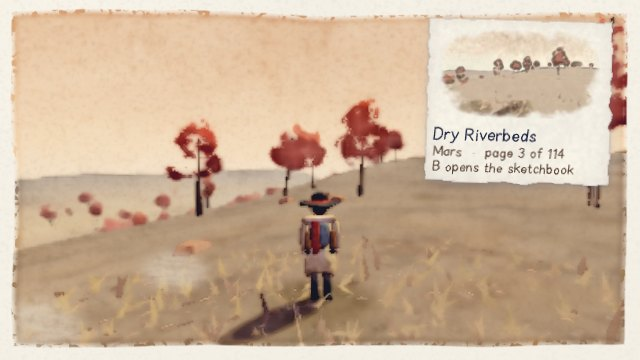
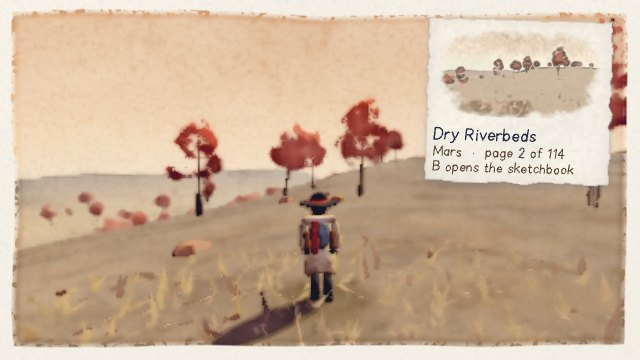
[pilot] M4 fix round (fourteenth PILOT agent): the figure's shade is out of the sketch, a view not drawn is offered again, the hand-over. game.js repaint: the frame kept for a page is painted through the world again (world.update with no time, then the painter), so PAINTER's cast shade is laid for w

diff --git a/src/core/game.js b/src/core/game.js
@@ -182,7 +182,8 @@ export class Game {
 
     // World, mood, paint.
     const tw = performance.now();
-    world.update(dt, cam.position, v.active ? v.active.id : null);
+    this._activeId = v.active ? v.active.id : null;
+    world.update(dt, cam.position, this._activeId);
     const wms = performance.now() - tw;
     st0.worldMs += (wms - st0.worldMs) * 0.08;
     // The worst world.update of the last 90 frames (the budget is a worst frame, not an average).
@@ -361,7 +362,7 @@ export class Game {
     try {
       const src = this.renderer ? this.renderer.domElement : null;
       if (!src || !src.width || !src.height || typeof document === 'undefined') return null;
-      if (hide) { fig.visible = false; this.painter.render(this.scene, this.camera, 0); }
+      if (hide) { fig.visible = false; this.repaint(); }
       const c = this._sketchCanvas || (this._sketchCanvas = document.createElement('canvas'));
       c.width = SKETCH.width; c.height = SKETCH.height;
       const g = c.getContext('2d', { willReadFrequently: true });
@@ -383,8 +384,16 @@ export class Game {
       if (url.length > SKETCH.maxEach) url = c.toDataURL('image/jpeg', SKETCH.qualityLow);
       return url.length > SKETCH.maxEach ? null : url;
     } catch { return null; } finally {
-      if (hide) { fig.visible = true; try { this.painter.render(this.scene, this.camera, 0); } catch { /* the next frame repaints */ } }
+      if (hide) { fig.visible = true; try { this.repaint(); } catch { /* the next frame repaints */ } }
     }
+  }
+
+  // Paint the frame again as it stands; no time passes. The world goes first: it lays the shade
+  // of whatever stands on the land and can be seen (a figure taken out of the picture left its
+  // shade on the ground: a dark smear in the middle of the page).
+  repaint() {
+    if (this.world && this.world.update) this.world.update(0, this.camera.position, this._activeId || null);
+    this.painter.render(this.scene, this.camera, 0);
   }
 
   // The footfall to sound this frame, if PHYSICS counted a new one: { foot, loud }, or null.

diff --git a/docs/notes/pilot.md b/docs/notes/pilot.md
@@ -156,18 +156,30 @@ error and no fall-back (the film run `s14/film-a.log`: `game errors: [] problems
     swapped for a stand-in is an empty canvas (a brown blot on the page). The game never does that, but
     `sketchHand` now refuses a frame with nothing in it and the page is wanted again (test in sketches.test).
 21. **No widow in a wrapped line** (`layout.js wrapLettering`): "A view for the sketchbook: / Temperate Forest".
+22. **The figure's shade is out of the sketch too** (`game.js repaint`): the kept frame is painted through the world
+    again (`world.update(0, ...)`, then the painter), so PAINTER's cast shade is laid for what can be seen; the hidden
+    figure used to leave its shade on the ground, a dark smear in the middle of the page on a pale plain
+    (`m4fix/book-mars-with-shade.jpg`, `book-mars-top-tier-with-shade.jpg` against `book-mars-after.jpg`; opened; the
+    figure and its shade are back in the frame the player sees, `slip-after.jpg`).
+23. **A view whose page could not be drawn while it was held** (the book opened over it) is offered again
+    (`sim.js stepEasel`; test in vista.test).
 
-### State of the tree (commit `b289c21`, on `70aec16`)
+### State of the tree
 
-All of the above is committed in `b289c21` (the thirteenth's flight work came in with the coordinator's snapshots
-`8418918` and `c03bce6`). Measured on a clean export of `70aec16` with PILOT's files of `b289c21` (`s14/t6`):
-unit 181, world 19, physics 314, `coast.mjs` PASS at both stands, `ghostfield.mjs` every counter zero (worst step
-loss 0.26 and 0.52 as before); the game loads at quality 0 with no console error and no fall-back (the film runs);
-in the browser on the stubs, all PASSED: `tests/m3check.mjs` (title card, sketch, book, the view found, offered,
-drawn from its easel, the controls given back, save and reload), `tests/playthrough.mjs` with PHYSICS (walk,
-jetpack, board, space, land, step out), `tests/trip.mjs` (Earth, Mars, Saturn in one sitting, reload).
-**Not run:** the painted play-through, trip and m3 (`tests/all.mjs` painted-*), the grand tour, the motion and
-weather sets, anything at quality 2 or at 1080p.
+My commits, in order: `b289c21` (on `70aec16`; the body of the round), `7ee3620` (notes), `f7b757a` (the dusk and the
+swimmer filmed, the browser helper's load limit), `52e74d1` (the cockpit's slips, the sketch's guard, the wrap, the
+top-tier frames), and the one that carries this paragraph (the shade out of the sketch, the easel offered again,
+the hand-over). The thirteenth's flight work came in with the coordinator's snapshots `8418918` and `c03bce6`.
+
+Measured on a clean export of `e371a93` with PILOT's files of the last commit (`s14/t11`): **unit 181, world 20,
+physics 314**, `coast.mjs` PASS at both stands, `ghostfield.mjs` every counter zero (worst step loss 0.26 and 0.52
+as before); the game loads at quality 0 with no console error and no fall-back (the film runs on that tree).
+In the browser on the stubs, on `b289c21`'s files, all PASSED: `tests/m3check.mjs` (title card, sketch, book, the
+view found, offered, drawn from its easel, the controls given back, save and reload), `tests/playthrough.mjs` with
+PHYSICS (walk, jetpack, board, space, land, step out), `tests/trip.mjs` (Earth, Mars, Saturn in one sitting,
+reload). **Not run after `b289c21`:** those three browser tests (what changed since is the cockpit's CSS, the
+sketch's guard and repaint, the wrap, one line of the easel). **Never run in this round:** the painted play-through,
+trip and m3 (`tests/all.mjs` painted-*), the grand tour, the motion and weather sets, anything at 1080p.
 
 ### Not done (and why), for whoever comes next
 
